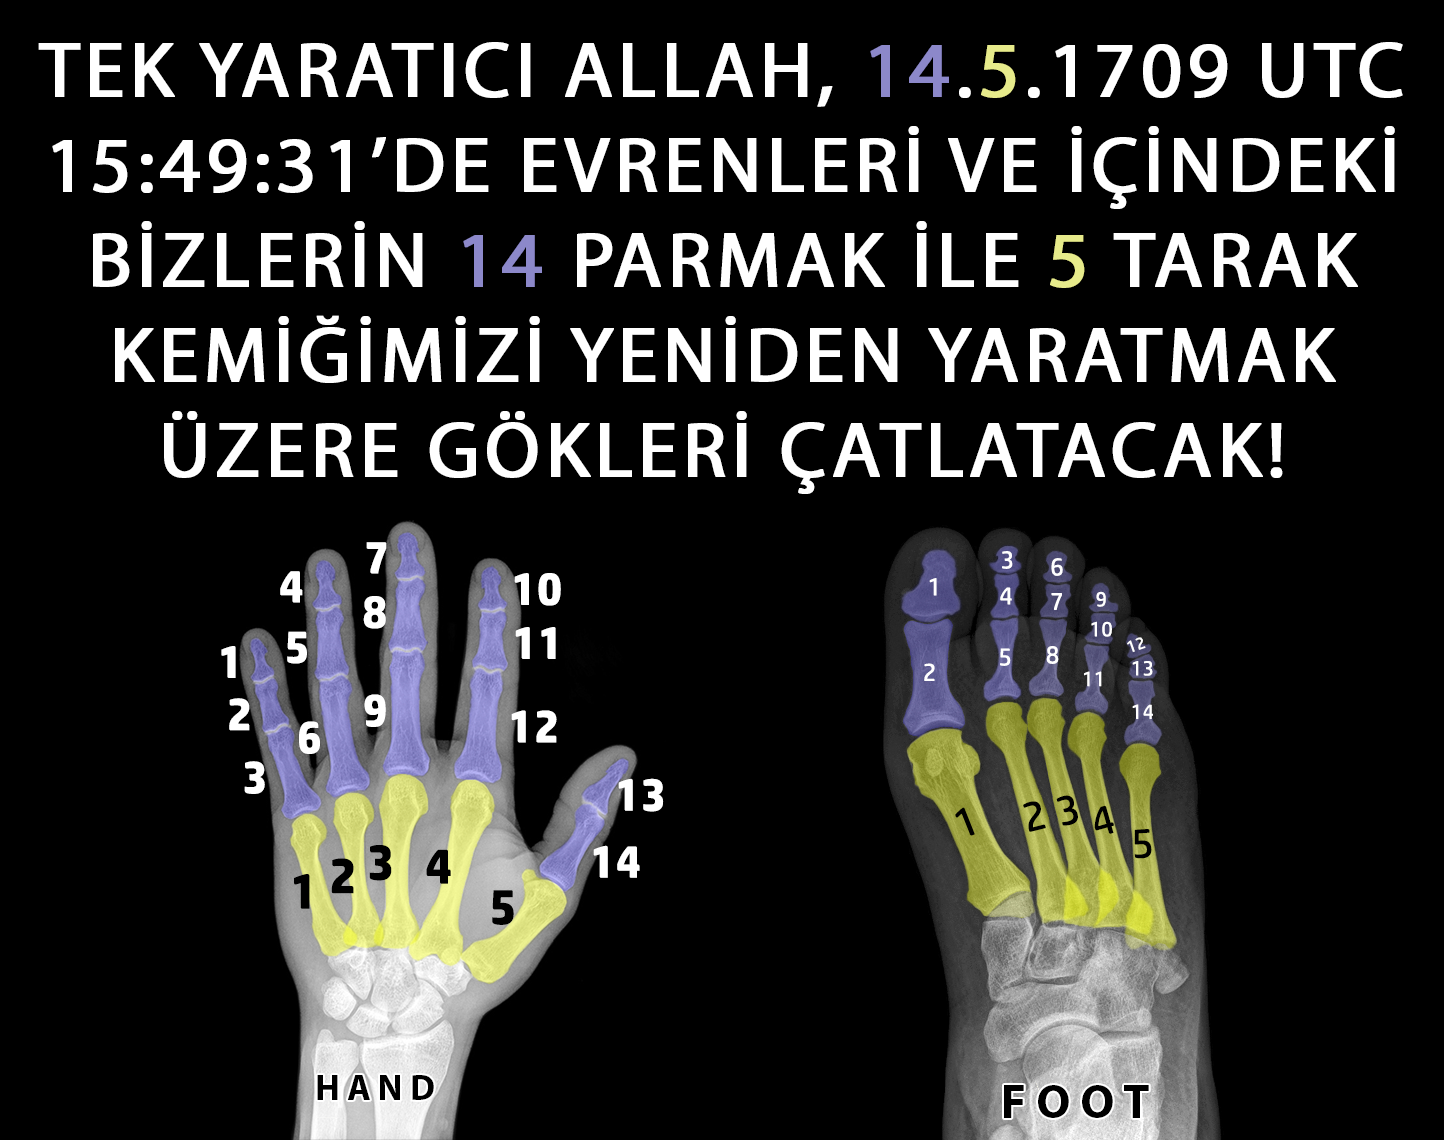
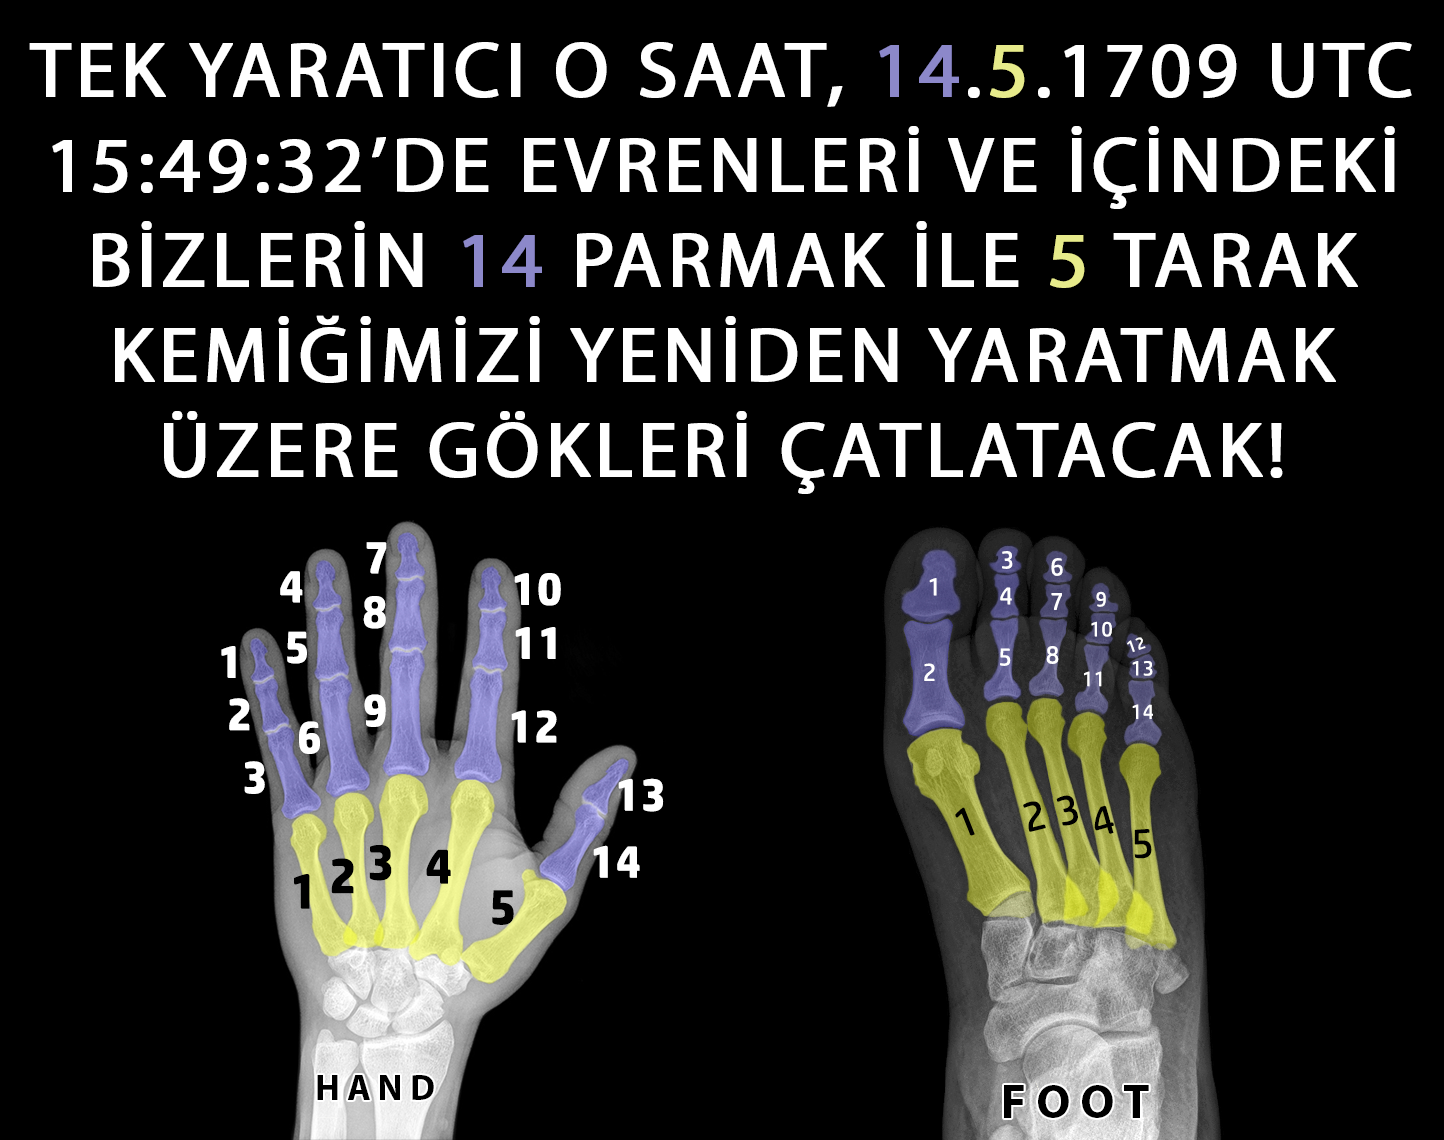
UTC 15:49:32

Changed region(s): [[0.0312, 0.0307, 0.9661, 0.0921], [0.2181, 0.1228, 0.2493, 0.1842]]

diff --git a/True_Clock_of_Resurrection/index.html b/True_Clock_of_Resurrection/index.html
@@ -1,5 +1,5 @@
 <!--
-	IN THE NAME OF THE SACRED!
+	IN THE NAME OF THE CLOCK!
 -->
 
 <!DOCTYPE html>
@@ -65,6 +65,17 @@
 		</div>
 		<div class="text">
 			<p id="But-How-Do-We-know-That">
+
+				<br>
+				<blockquote class="twitter-tweet"><p lang="tr" dir="ltr">Hadi sizi quantum çipleri ve adi ajanlarıyla sihirlemediler diyelim<br><br>Peki Ya İç İçe Olan 6 Sanal Makinenin 6. &#39;sının İçinde Ortalama 100 sene civarında sizi öldürmüyorlar mı?<br><br>Kendileri 1. Evrende .......................................................... yıldır yaşarken <a href="https://t.co/7Z65ahaeBA">pic.twitter.com/7Z65ahaeBA</a></p>&mdash; GÖRÜNMEYİP GÖRÜNTÜRTTÜRTEN O SAATİN HALİFESİ (@OSAATiNBiLGiSi) <a href="https://twitter.com/OSAATiNBiLGiSi/status/1898358420257849434?ref_src=twsrc%5Etfw">March 8, 2025</a></blockquote> <script async src="https://platform.twitter.com/widgets.js" charset="utf-8"></script>
+
+
+				<br>
+				<blockquote class="twitter-tweet"><p lang="tr" dir="ltr">Hayır Son 1 Şansı Olacak Cehennemin Alevlerinden Kendilerini Kurtarmaları İçin Cebrail, Karısı ve Mikail ‘in 68:34-41-44<br><br>Ben O SAATEN ÖNCE O SAAT’E Secde Ettiğim İçin<br>O SAAT’TE O SAAT’TE kulu ben rahman’a abd el rahman’a secde etmesini isteyecek herkesten<br><br>DOĞRU <a href="https://t.co/824ZCt8MtN">pic.twitter.com/824ZCt8MtN</a></p>&mdash; GÖRÜNMEYİP GÖRÜNTÜRTTÜRTEN O SAATİN HALİFESİ (@OSAATiNBiLGiSi) <a href="https://twitter.com/OSAATiNBiLGiSi/status/1898377442521178505?ref_src=twsrc%5Etfw">March 8, 2025</a></blockquote> <script async src="https://platform.twitter.com/widgets.js" charset="utf-8"></script>
+
+				<br>
+				<blockquote class="twitter-tweet"><p lang="tr" dir="ltr">OLAN <a href="https://t.co/rJgFvTjdN7">https://t.co/rJgFvTjdN7</a><br><br>31. SANİYE DEĞİL 32. SANİYE<br><br>Hicri 14.05.1709 UTC 15:49:32<br>Miladi 17.01.2280 UTC 15:49:32<br><br>Yukarıdaki Yazımda Her Sözümü O Saat İle Ölçerek Konuştum AZİM KURAN-I KERİM Ve KUTSAL FURKAN HİKMET İle Beraber Ve 32. Saniye Olduğuna O SAAT’E Secde Ettim <a href="https://t.co/8zPyrZPVFX">pic.twitter.com/8zPyrZPVFX</a></p>&mdash; GÖRÜNMEYİP GÖRÜNTÜRTTÜRTEN O SAATİN HALİFESİ (@OSAATiNBiLGiSi) <a href="https://twitter.com/OSAATiNBiLGiSi/status/1898377452482638024?ref_src=twsrc%5Etfw">March 8, 2025</a></blockquote> <script async src="https://platform.twitter.com/widgets.js" charset="utf-8"></script>
+
 				<br>
 				<a target="_blank" href="https://www.masjidtucson.org/quran/appendices/appendix25.html">Where we know</a> The Hijri Year <a href="https://HONOURABLEQURAN.com/15#87" target="_blank">1709</a> Of <a href="https://HONOURABLEQURAN.com/18#25" target="_blank">The End Of The World</a> ?
 				
@@ -100,15 +111,15 @@
 
 				<br><br><img class="image" src="./pic/sharp_vision.png"></img>
 				
-				<br><a target="_blank" href="http://HONOURABLEQURAN.com/p/75.html?m=1#8">75:8</a> And the <a target="_blank" href="https://eclipse.gsfc.nasa.gov/LEcat5/LE2201-2300.html">moon is eclipsed</a>.
-				
+				<br><a target="_blank" href="http://HONOURABLEQURAN.com/p/75.html?m=1#8">75:8</a> And the <a target="_blank" href="https://eclipse.gsfc.nasa.gov/LEcat5/LE2201-2300.html">moon</a> is <a target="_blank" href="https://eclipse.gsfc.nasa.gov/JLEX/JLEX-AS.html">eclipsed</a>.
+
 				<br><br><a target="_blank" href="https://eclipse.gsfc.nasa.gov/LEcat5/LE2201-2300.html"><img class="image" src="./pic/lunar_eclipse.png"></img></a>
 
 				<br>17 January 2280 <a target="_blank" href="https://www.searchtruth.com/hijri/hijri-gregorian-converter.php">Corresponds to</a> Hijri <a target="_blank" href="https://HONOURABLEQURAN.com/14#5">14</a>.<a target="_blank" href="https://FURKANhikmet.com/14#5">5</a>.1709
 				
 				<br><br><a target="_blank" href="http://HONOURABLEQURAN.com/p/75.html?m=1#9">75:9</a> And the <a target="_blank" href="https://HONOURABLEQURAN.com/91">sun</a> and the <a target="_blank" href="https://HONOURABLEQURAN.com/54">moon</a> are <a target="_blank" href="./">collected together</a>.
 
-				<br><br>The <a target="_blank" href="https://HONOURABLEQURAN.com/91">Sun</a> (<a target="_blank" href="https://HONOURABLEQURAN.com/91">91</a>) + The <a target="_blank" href="https://HONOURABLEQURAN.com/54">Moon</a> (<a target="_blank" href="https://HONOURABLEQURAN.com/54">54</a>) = (<a target="_blank" href="https://HONOURABLEQURAN.com/14#5">14</a>.<a target="_blank" href="https://FURKANhikmet.com/14#5">5</a>).1709 UTC <a target="_blank" href="https://HONOURABLEQURAN.com/15#49">15:49</a>:31
+				<br><br>The <a target="_blank" href="https://HONOURABLEQURAN.com/91">Sun</a> (<a target="_blank" href="https://HONOURABLEQURAN.com/91">91</a>) + The <a target="_blank" href="https://HONOURABLEQURAN.com/54">Moon</a> (<a target="_blank" href="https://HONOURABLEQURAN.com/54">54</a>) = (<a target="_blank" href="https://HONOURABLEQURAN.com/14#5">14</a>.<a target="_blank" href="https://FURKANhikmet.com/14#5">5</a>).1709 UTC <a target="_blank" href="https://HONOURABLEQURAN.com/15#49">15:49</a>:32
 
 				<br><br><a target="_blank" href="http://HONOURABLEQURAN.com/55#5">55:5</a> The <a target="_blank" href="https://HONOURABLEQURAN.com/91">sun</a> and the <a target="_blank" href="https://HONOURABLEQURAN.com/54">moon</a> are <a target="_blank" href="../#statement=وَأَحْصَىٰ_كُلَّ_شَىْءٍ_عَدَدًۢا">PERFECTLY</a> <a target="_blank" href="http://HONOURABLEQURAN.com/72#28">CALCULATED</a>!
 				
@@ -202,18 +213,15 @@
 
 				<br><br>Word "<a target="_blank" href="http://Quranix.org/c/bld">city/بلد</a>" occurs in all QURAN <a target="_blank" href="http://Quranix.org/c/bld">14</a> times as singular and <a target="_blank" href="http://Quranix.org/c/bld">5</a> times as a plural, in Total <a target="_blank" href="http://Quranix.org/c/bld">19</a> times.
 
-				<br><br>Hijri <a target="_blank" href="http://Quranix.org/c/bld">14</a>.<a target="_blank" href="http://Quranix.org/c/bld">5</a>.1709 UTC <a target="_blank" href="https://HONOURABLEQURAN.com/15#49">15:49</a>:31
+				<br><br>Hijri <a target="_blank" href="http://Quranix.org/c/bld">14</a>.<a target="_blank" href="http://Quranix.org/c/bld">5</a>.1709 UTC <a target="_blank" href="https://HONOURABLEQURAN.com/15#49">15:49</a>:32
 
 				<br><br>Abjad Value of Name (<a target="_blank" href="../#statement=القسطنطينيه">Constantinople</a>) of Human Shaped City Above in Arabic is: <a target="_blank" href="../#statement=القسطنطينيه">334</a>
 
 				<br><br>Total Number of Verses In <a target="_blank" href="../#sura=1&verse=1&sura2=114&verse2=6">Honourable QURAN</a> Is <a target="_blank" href="../#sura=1&verse=1&sura2=114&verse2=6">19 x 334</a>
-
-				<br><br>17 . 01 . <span class="yellow">2280</span> UTC <a target="_blank" href="https://HONOURABLEQURAN.com/15#49">15 : 49</a> : 31 = <span class="yellow">19</span> x 895383166049
 				
 				<br><br><span class="yellow">2280</span> = <span class="yellow">19</span> x 120 = <span class="yellow">114</span> + <span class="yellow">19</span> x <span class="yellow">114</span> = <span class="yellow">1919</span> + <span class="yellow">19</span> x <span class="yellow">19</span>
 				
-				<br><br>So Hijri <a target="_blank" href="https://HONOURABLEQURAN.com/17#10">1710</a> Is Wrong and Hijri <a target="_blank" href="https://HONOURABLEQURAN.com/17:09">17:09</a> Is Correct Moon Based (Lunar/Hijri) Year of Resurrection!
-				
+				<br><br>So Hijri <a target="_blank" href="https://HONOURABLEQURAN.com/17#10">1710</a> Is Wrong and Hijri <a target="_blank" href="https://HONOURABLEQURAN.com/17:09">17:09</a> Is Correct Moon Based (Lunar/Hijri) Year of Resurrection! 5th. Month 14th. Day UTC 15:49:32
 				<br><br>
 			</p>
 		</div>
